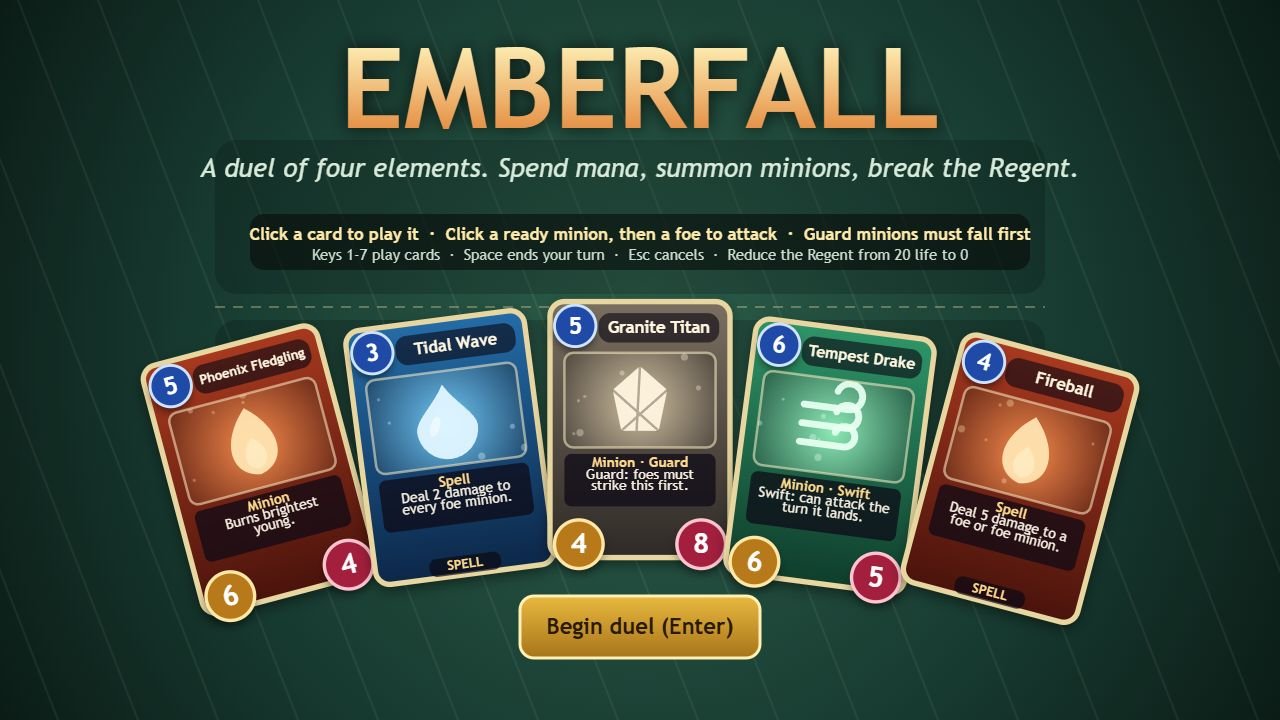
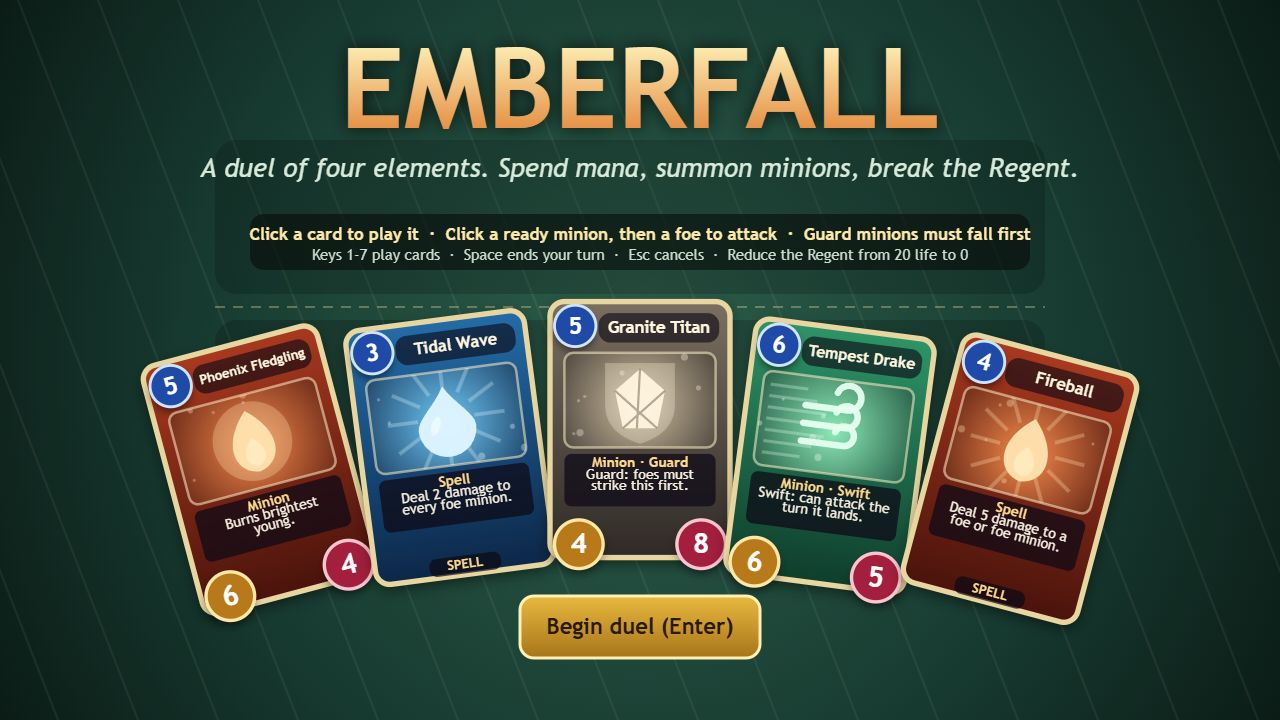
Card art accents for Guard, Swift and spells; attack lunge animation; fresh screenshots

diff --git a/game/src/cardview.js b/game/src/cardview.js
@@ -80,6 +80,49 @@ export function drawCardBack(ctx, x, y, w, h) {
   ctx.restore();
 }
 
+// Each card's art gets a backdrop that says what it does: a shield for Guard, speed lines for Swift, rays for spells.
+function drawAccent(ctx, card, ax, ay, aw, ah, el) {
+  const cx = ax + aw / 2;
+  const cy = ay + ah / 2;
+  ctx.save();
+  ctx.globalAlpha = 0.3;
+  ctx.fillStyle = el.glyph;
+  ctx.strokeStyle = el.glyph;
+  if (card.keywords.includes('guard')) {
+    const s = ah * 0.46;
+    ctx.beginPath();
+    ctx.moveTo(cx - s * 0.8, cy - s * 0.85);
+    ctx.lineTo(cx + s * 0.8, cy - s * 0.85);
+    ctx.lineTo(cx + s * 0.8, cy + s * 0.1);
+    ctx.quadraticCurveTo(cx + s * 0.8, cy + s * 0.75, cx, cy + s);
+    ctx.quadraticCurveTo(cx - s * 0.8, cy + s * 0.75, cx - s * 0.8, cy + s * 0.1);
+    ctx.closePath();
+    ctx.fill();
+  } else if (card.keywords.includes('swift')) {
+    ctx.lineWidth = Math.max(1.5, aw * 0.02);
+    for (let i = -3; i <= 3; i++) {
+      ctx.beginPath();
+      ctx.moveTo(ax + aw * 0.05, cy + i * ah * 0.12);
+      ctx.lineTo(ax + aw * (0.3 + 0.07 * (3 - Math.abs(i))), cy + i * ah * 0.12);
+      ctx.stroke();
+    }
+  } else if (card.type === 'spell') {
+    ctx.lineWidth = Math.max(1.5, aw * 0.025);
+    for (let i = 0; i < 12; i++) {
+      const a = (i / 12) * Math.PI * 2;
+      ctx.beginPath();
+      ctx.moveTo(cx + Math.cos(a) * ah * 0.3, cy + Math.sin(a) * ah * 0.3);
+      ctx.lineTo(cx + Math.cos(a) * ah * 0.62, cy + Math.sin(a) * ah * 0.62);
+      ctx.stroke();
+    }
+  } else {
+    ctx.beginPath();
+    ctx.arc(cx, cy, ah * 0.42, 0, Math.PI * 2);
+    ctx.fill();
+  }
+  ctx.restore();
+}
+
 const GLOW = { gold: '#ffd85e', cyan: '#62e6ff', red: '#ff5a5a', green: '#7dff8a' };
 
 // o: { card, x, y, w, h, style: 'full' | 'mini', atk, hp, maxhp, glow, dim, sleepy, costBad }
@@ -144,8 +187,10 @@ export function drawCard(ctx, o) {
     ctx.arc(sx, sy, Math.max(1, w * (0.008 + (i % 3) * 0.006)), 0, Math.PI * 2);
     ctx.fill();
   }
+  drawAccent(ctx, card, ax, ay, aw, ah, el);
   ctx.globalAlpha = 0.95;
-  drawGlyph(ctx, card.element, ax + aw / 2, ay + ah / 2, Math.min(ah * 0.36, aw * 0.3), el.glyph);
+  const scale = card.type === 'spell' ? 0.34 : 0.26 + card.cost * 0.014;
+  drawGlyph(ctx, card.element, ax + aw / 2, ay + ah / 2, Math.min(ah * scale, aw * 0.3), el.glyph);
   ctx.restore();
   ctx.lineWidth = Math.max(1, w * 0.014);
   ctx.strokeStyle = 'rgba(255,240,200,.55)';

diff --git a/game/src/main.js b/game/src/main.js
@@ -43,6 +43,11 @@ function processEvents() {
       const spot = eventSpot(event);
       ui.floaters.push({ ...spot, text: `+${event.amount}`, color: '#7dff9a', t0: ui.time });
       sound('heal');
+    } else if (event.type === 'attack') {
+      const from = boardRects(event.side, ui.g.sides[event.side].board.length + 1)[event.idx];
+      const to = event.target.kind === 'face' ? heroCircle(event.target.side) : eventSpot({ ...event.target, type: 'damage' });
+      if (from) ui.lunges.set(event.uid, { t0: ui.time, dx: (to.x - (from.x + from.w / 2)) * 0.45, dy: (to.y - (from.y + from.h / 2)) * 0.45 });
+      sound('hit');
     } else if (event.type === 'play') sound('play');
     else if (event.type === 'draw') sound('draw');
     else if (event.type === 'death') sound('death');

diff --git a/game/src/render.js b/game/src/render.js
@@ -149,8 +149,18 @@ function boardCard(ctx, ui, side, idx, rect) {
   else if (selected) glow = 'cyan';
   else if (ready) glow = 'green';
   const lift = hovered && !isTarget ? -6 : 0;
+  const lunge = ui.lunges.get(m.uid);
+  let ox = 0;
+  let oy = 0;
+  if (lunge) {
+    const k = (ui.time - lunge.t0) / 0.4;
+    if (k >= 0 && k <= 1) {
+      ox = lunge.dx * Math.sin(k * Math.PI);
+      oy = lunge.dy * Math.sin(k * Math.PI);
+    }
+  }
   drawCard(ctx, {
-    card: m.card, x: rect.x, y: rect.y + lift, w: rect.w, h: rect.h, style: 'mini',
+    card: m.card, x: rect.x + ox, y: rect.y + lift + oy, w: rect.w, h: rect.h, style: 'mini',
     atk: m.atk, hp: m.hp, maxhp: m.maxhp, glow, sleepy: m.sick && g.turn === side,
   });
 }

diff --git a/game/src/rules.js b/game/src/rules.js
@@ -206,7 +206,7 @@ export function attack(g, sideIdx, idx, target) {
   const me = g.sides[sideIdx];
   const mine = me.board[idx];
   mine.attacked = true;
-  emit(g, { type: 'attack', side: sideIdx, idx, target });
+  emit(g, { type: 'attack', side: sideIdx, idx, uid: mine.uid, target });
   if (target.kind === 'face') {
     note(g, `${mine.card.name} strikes ${sideName(target.side)} for ${mine.atk}.`);
     hurtFace(g, target.side, mine.atk);

diff --git a/game/src/ui.js b/game/src/ui.js
@@ -11,7 +11,7 @@ import {
 export function newUi() {
   return {
     phase: 'title', g: null, sel: null, hover: null, mouse: { x: 640, y: 360 }, floaters: [],
-    msg: '', banner: null, time: 0, aiBusy: false, aiAt: 0, endAt: 0,
+    msg: '', banner: null, lunges: new Map(), time: 0, aiBusy: false, aiAt: 0, endAt: 0,
   };
 }
 
